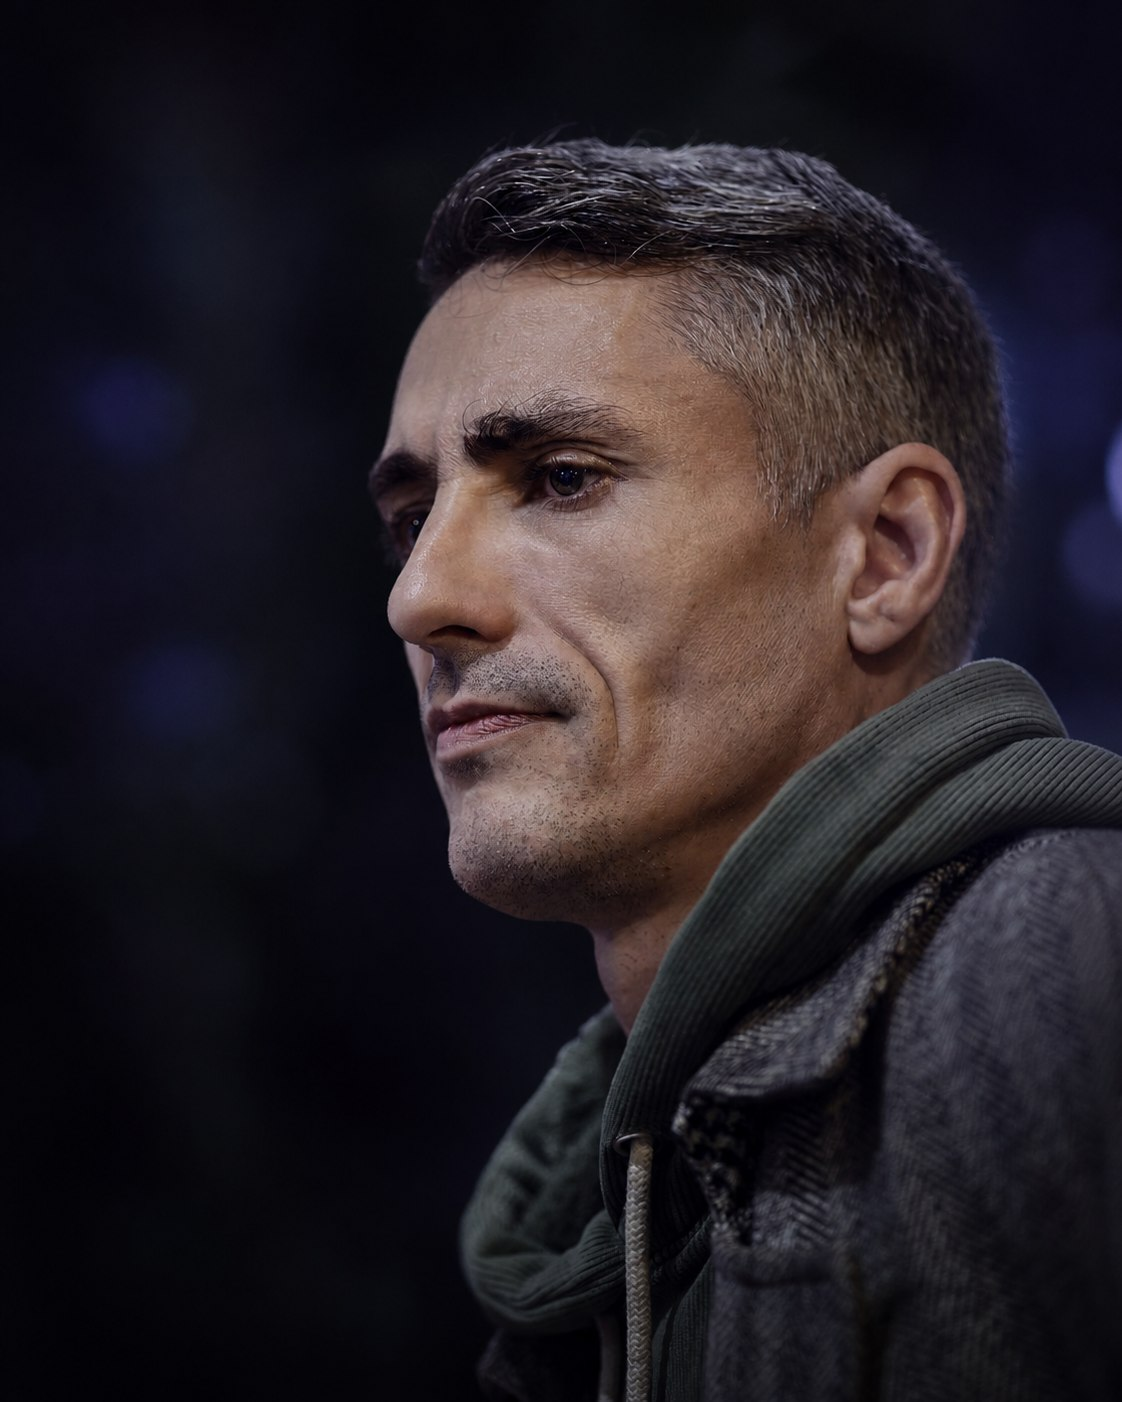
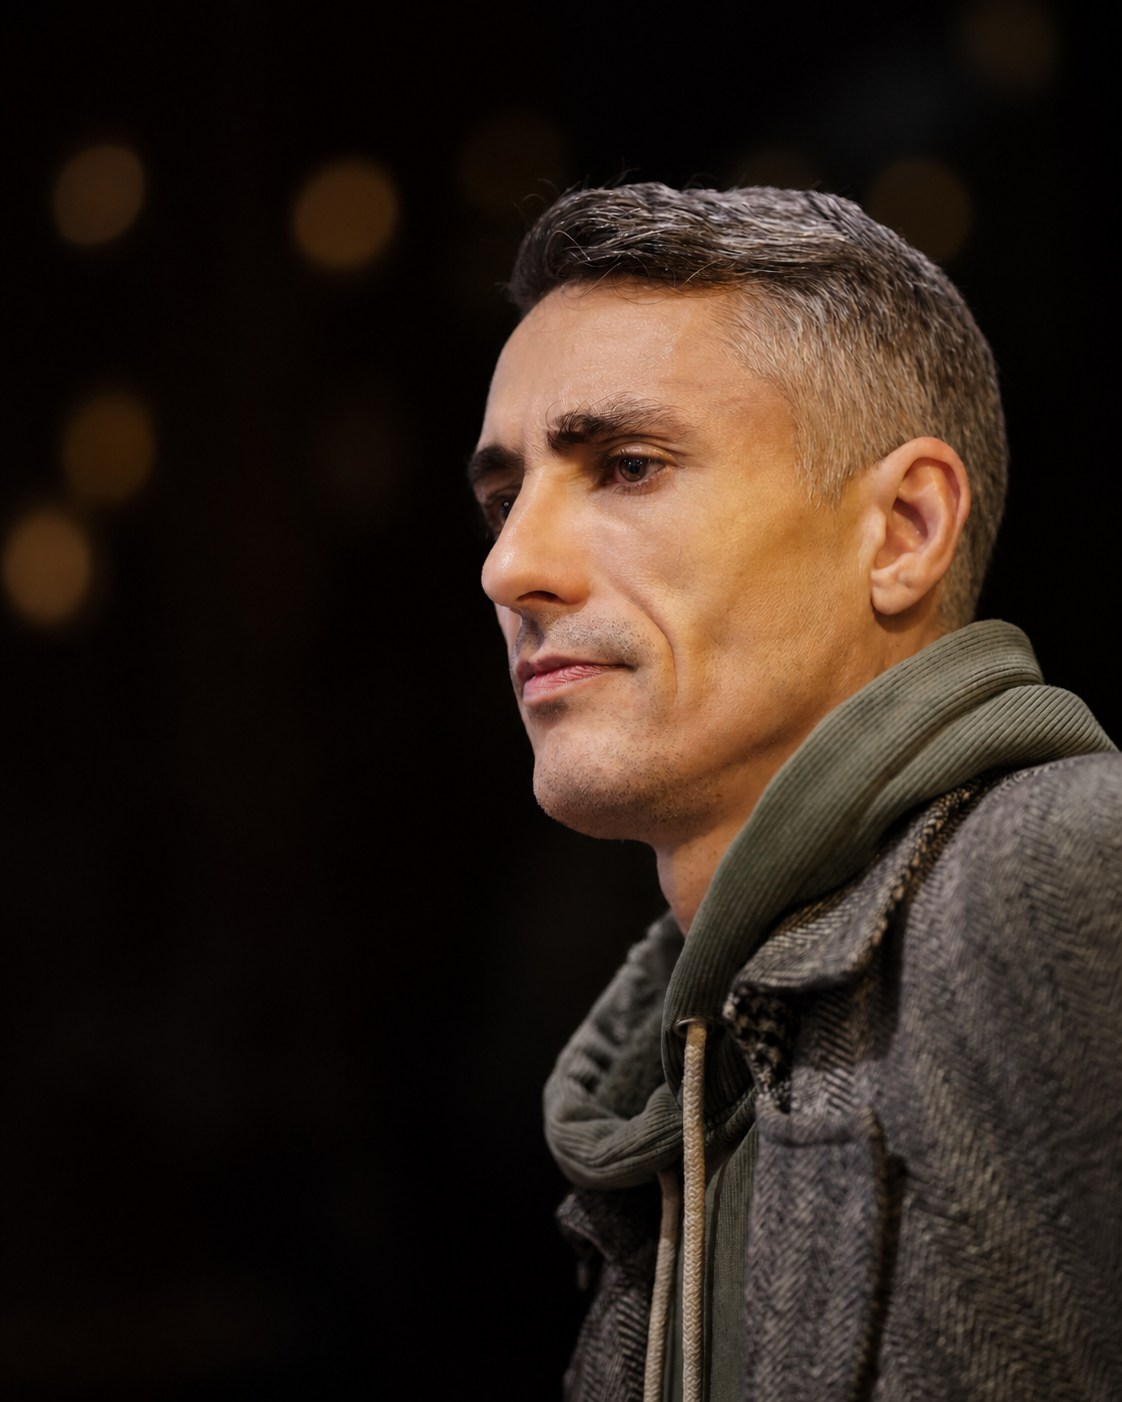
Restore natural portrait colors

diff --git a/sites/hub/index.html b/sites/hub/index.html
@@ -53,7 +53,7 @@
 
       <section class="about" id="about" aria-labelledby="about-title">
         <div class="about-copy"><p class="eyebrow">Инженерный фундамент</p><h2 id="about-title">Не продаю магию. Собираю системы.</h2><p>Я Алексей Грищенко, AI Solutions Architect и бывший Senior Java Architect. Прошёл путь от C++ и инфраструктуры до enterprise-систем и агентных решений. Поэтому смотрю не только на эффектную демку, но и на то, как всё это будет жить после пятницы вечером.</p><a class="text-link" href="https://cv.godmodetools.com">Посмотреть профессиональный профиль ↗</a></div>
-        <figure class="about-portrait"><img src="/assets/alexey-grishchenko-about.jpg" alt="Алексей Грищенко" width="1122" height="1402" loading="lazy" decoding="async" /></figure>
+        <figure class="about-portrait"><img src="/assets/alexey-grishchenko-about.jpg?v=natural-warm" alt="Алексей Грищенко" width="1122" height="1402" loading="lazy" decoding="async" /></figure>
         <div class="evidence-grid" aria-label="Опыт в цифрах"><div class="evidence-item"><strong>20+</strong><span>лет в IT: от embedded и инфраструктуры до enterprise и AI</span></div><div class="evidence-item"><strong>10+</strong><span>лет в Java-разработке, техлидстве и архитектуре</span></div><div class="evidence-item"><strong>20+</strong><span>инженеров в командах, которые я вёл</span></div><div class="evidence-item"><strong>15 000+</strong><span>магазинов работали на системах, которые мы развивали</span></div></div>
       </section>
 

diff --git a/app/globals.css b/app/globals.css
@@ -399,16 +399,6 @@ h2 {
   background: #080a11;
 }
 
-.about-portrait::after {
-  content: "";
-  position: absolute;
-  inset: 0;
-  background:
-    linear-gradient(90deg, rgba(5, 6, 10, 0.2), transparent 34%),
-    linear-gradient(0deg, rgba(5, 6, 10, 0.22), transparent 28%);
-  pointer-events: none;
-}
-
 .about-portrait img {
   width: 100%;
   height: 100%;

diff --git a/app/page.tsx b/app/page.tsx
@@ -173,7 +173,7 @@ export default function Home() {
         </div>
         <figure className="about-portrait">
           <img
-            src="/assets/alexey-grishchenko-about.jpg"
+            src="/assets/alexey-grishchenko-about.jpg?v=natural-warm"
             alt="Алексей Грищенко"
             width="1122"
             height="1402"
